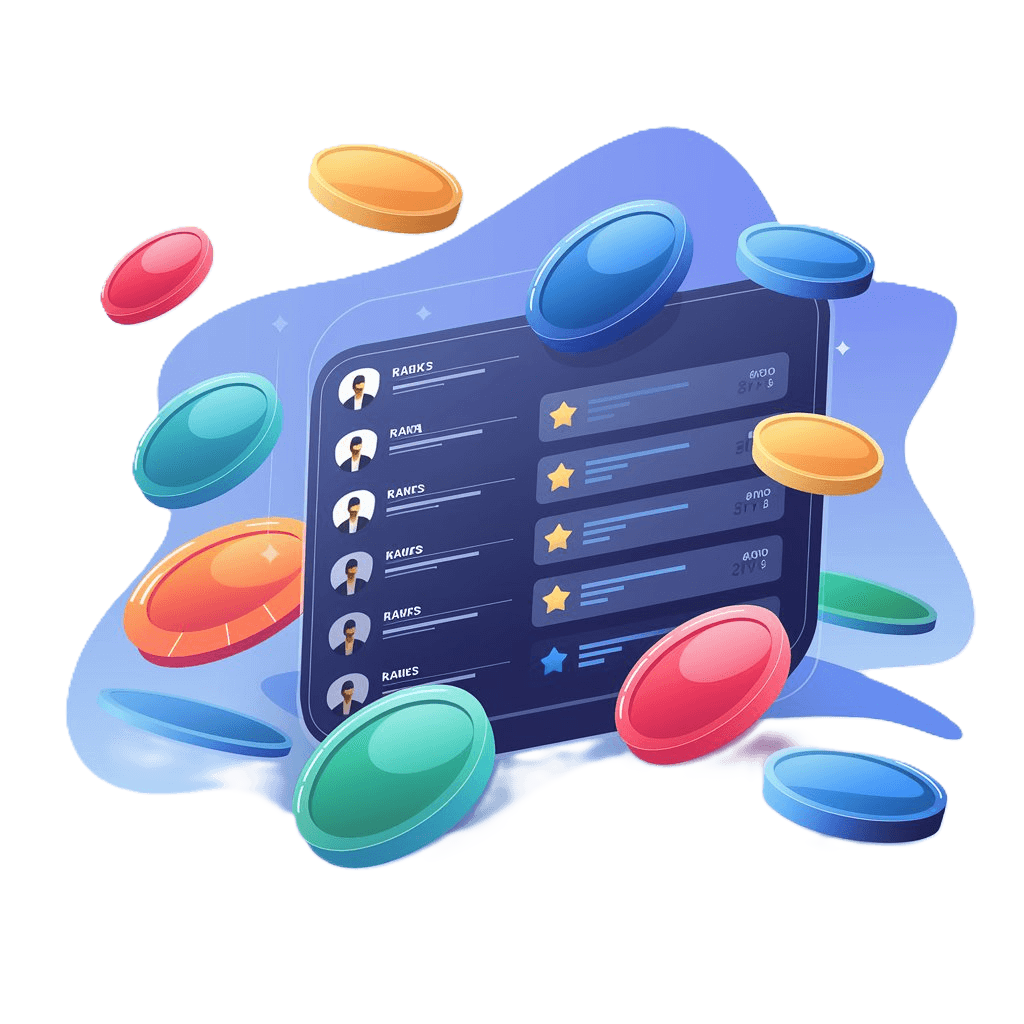
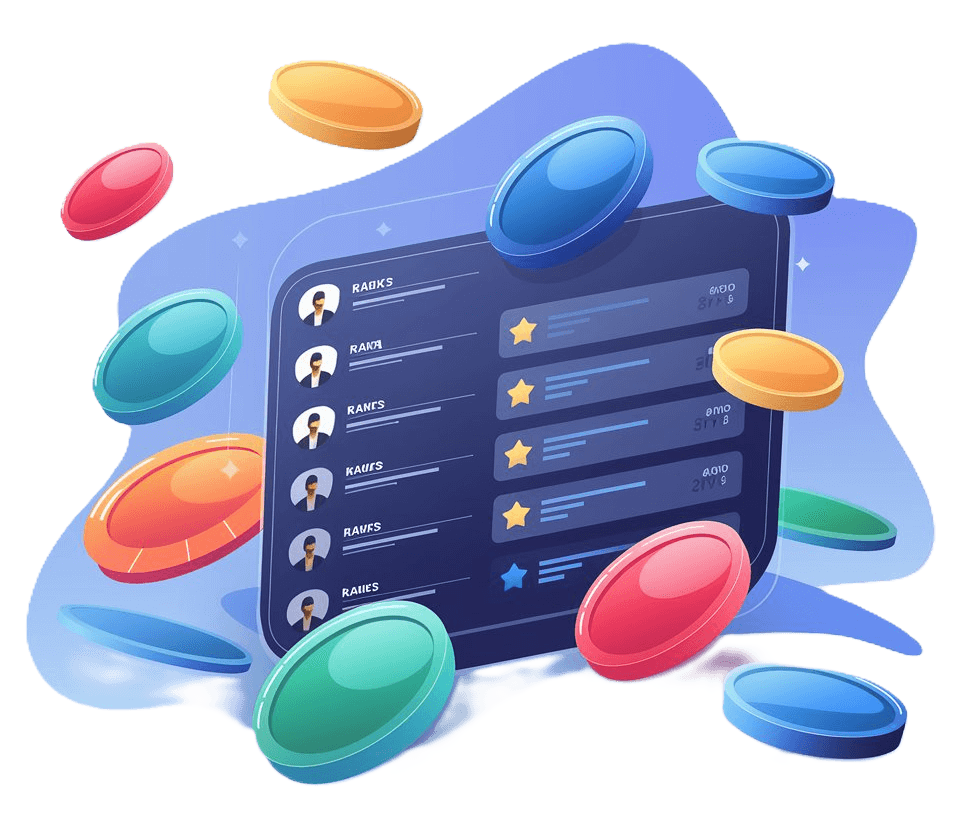
fix home responsiveness

diff --git a/src/pages/Home.jsx b/src/pages/Home.jsx
@@ -11,16 +11,16 @@ import Atom from "../components/core/Homepage/Atom";
 const Home = () => {
   return (
     <div>
-      <div className="relative mx-auto flex flex-col w-11/12 max-w-maxContent items-center text-white justify-between gap-8">
+      <div className="relative mx-auto flex flex-col w-11/12 max-w-maxContent items-center text-white justify-between md:gap-8">
         {/* Section 1 */}
-        <div className="flex justify-between items-center my-16">
-          <div className="w-[50%]">
-            <div className="text-4xl text-center font-semibold mb-7">
+        <div className="flex flex-col md:flex-row justify-between items-center my-16">
+          <div className="w-[100%] md:w-[50%]">
+            <div className="text-3xl sm:text-4xl text-center font-semibold mb-7">
               Master Skills,
-              <HighlightText text={"One Step at a Time"} />
+              <HighlightText text={" One Step at a Time"} />
             </div>
 
-            <div className="text-lg font-bold text-center text-richblack-300">
+            <div className="text-md sm:text-lg font-bold text-center text-richblack-300">
               Your ultimate destination for top-notch, curated courses to
               elevate your skills and career. Learn at your own pace, track your
               progress, and earn rewards as you upskill. With SkillStep, every
@@ -38,31 +38,35 @@ const Home = () => {
             </div>
           </div>
 
-          <div className="w-[50%]">
-            <img src={Home1} alt="Home1" />
+          <div className="w-[100%] md:w-[50%] flex justify-center items-center mt-16 md:mt-0">
+            <img src={Home1} width={"80%"} alt="success" />
           </div>
         </div>
 
         {/* Section 2 */}
-        <div className="flex flex-col-reverse sm:flex-row justify-center items-center mt-10 gap-10 sm:gap-20 mb-10">
+        <div className="flex flex-col-reverse md:flex-row justify-center items-center mt-10 md:mt-0 gap-10 sm:gap-20 mb-10">
           {/* left part */}
-          <div className="w-1/2 sm:w-[38%]">
-            <img src={Home2} height={300} alt="" />
+          <div className="w-[100%] md:w-[50%] flex justify-center items-center">
+            <img
+              src={Home2}
+              alt="progress_track"
+              className="w-[60%] md:w-[90%]"
+            />
           </div>
 
           {/* left part */}
-          <div className="w-full sm:w-1/2 flex flex-col gap-6">
-            <div className="text-4xl font-semibold mt-10">
+          <div className="w-[100%] md:w-[50%] flex flex-col gap-6">
+            <div className="text-3xl sm:text-4xl font-semibold mt-10">
               Structured
               <HighlightText text={" Learning "} />
               Path
             </div>
 
-            <div className="w-[90%] text-xl font-bold text-blue-50s">
+            <div className="w-[90%] text-lg md:text-xl font-bold text-blue-50s">
               Stay Consistent and Master New Skills Effectively
             </div>
 
-            <div className="w-[90%] text-lg font-bold text-richblack-300">
+            <div className="w-[90%] text-md md:text-lg font-bold text-richblack-300">
               Follow a guided, alternate-day structure to maintain consistency
               and make steady progress. Each course is designed to keep you
               engaged and motivated, without overwhelming you.
@@ -77,19 +81,19 @@ const Home = () => {
         </div>
 
         {/* Section 3 */}
-        <div className="flex flex-col-reverse sm:flex-row justify-center items-center mt-10 gap-10 sm:gap-20 mb-10">
+        <div className="flex flex-col md:flex-row justify-center items-center mt-10 gap-10 sm:gap-20 mb-10">
           {/* left part */}
-          <div className="w-full sm:w-1/2 flex flex-col gap-6">
-            <div className="text-4xl font-semibold mt-10">
+          <div className="w-[100%] md:w-[50%] flex flex-col gap-6">
+            <div className="text-3xl sm:text-4xl font-semibold mt-10">
               Progress
               <HighlightText text={" Tracking & Certificates"} />
             </div>
 
-            <div className="w-[90%] text-xl font-bold text-blue-50s">
+            <div className="w-[90%] text-lg sm:text-xl font-bold text-blue-50s">
               Monitor Your Progress and Showcase Your Achievements
             </div>
 
-            <div className="w-[90%] text-lg font-bold text-richblack-300">
+            <div className="w-[90%] text-md sm:text-lg font-bold text-richblack-300">
               Stay on top of your learning journey with personalized dashboards
               and earn certificates upon course completion to highlight your
               accomplishments.
@@ -103,30 +107,40 @@ const Home = () => {
           </div>
 
           {/* right part */}
-          <div className="w-1/2 sm:w-[38%]">
-            <img src={Home3} height={300} alt="" loading="lazy" />
+          <div className="w-[100%] md:w-[50%] flex justify-center items-center">
+            <img
+              src={Home3}
+              alt="certificate"
+              loading="lazy"
+              className="w-[60%] md:w-[90%]"
+            />
           </div>
         </div>
 
         {/* Section 4 */}
-        <div className="flex flex-col-reverse sm:flex-row justify-center items-center gap-10 sm:gap-20">
+        <div className="flex flex-col-reverse md:flex-row justify-center items-center gap-10 md:gap-10">
           {/* left part */}
-          <div className="w-1/2 sm:w-[38%]">
-            <img src={Home4} height={300} alt="" loading="lazy" />
+          <div className="w-[100%] md:w-[50%] flex justify-center items-center">
+            <img
+              src={Home4}
+              alt="games"
+              loading="lazy"
+              className="w-[70%] md:w-[90%]"
+            />
           </div>
 
           {/* right part */}
-          <div className="w-full sm:w-1/2 flex flex-col gap-6">
-            <div className="text-4xl font-semibold mt-10">
+          <div className="w-[100%] md:w-[50%] flex flex-col gap-6">
+            <div className="text-3xl sm:text-4xl font-semibold mt-10">
               Gamification for
               <HighlightText text={" Motivation"} />
             </div>
 
-            <div className="w-[90%] text-xl font-bold text-blue-50s">
+            <div className="w-[90%] text-lg sm:text-xl font-bold text-blue-50s">
               Stay Engaged and Motivated with Fun Rewards
             </div>
 
-            <div className="w-[90%] text-lg font-bold text-richblack-300">
+            <div className="w-[90%] text-md sm:text-lg font-bold text-richblack-300">
               Earn badges, points, and climb the leaderboard as you progress
               through your learning journey. Keep up the streak and be rewarded
               for your dedication and hard work!
@@ -141,19 +155,19 @@ const Home = () => {
         </div>
 
         {/* Section 5 */}
-        <div className="flex flex-col-reverse sm:flex-row justify-center items-center mt-10 gap-10 sm:gap-20 mb-10">
+        <div className="flex flex-col md:flex-row justify-center items-center mt-10 gap-10 sm:gap-20 mb-10">
           {/* left part */}
-          <div className="w-full sm:w-1/2 flex flex-col gap-6">
-            <div className="text-4xl font-semibold mt-10">
+          <div className="w-[100%] md:w-[50%] flex flex-col gap-6">
+            <div className="text-3xl sm:text-4xl font-semibold mt-10">
               Email
               <HighlightText text={" Notifications"} />
             </div>
 
-            <div className="w-[90%] text-xl font-bold text-blue-50s">
+            <div className="w-[90%] text-lg sm:text-xl font-bold text-blue-50s">
               Stay Informed and On Track with Timely Updates
             </div>
 
-            <div className="w-[90%] text-lg font-bold text-richblack-300">
+            <div className="w-[90%] text-md sm:text-lg font-bold text-richblack-300">
               Receive timely updates and reminders about new content and
               courses, tailored to your learning preferences. Stay informed and
               never miss an opportunity to enhance your skills.
@@ -167,8 +181,13 @@ const Home = () => {
           </div>
 
           {/* right part */}
-          <div className="w-1/2 sm:w-[38%]">
-            <img src={Home5} height={300} alt="" loading="lazy" />
+          <div className="w-[100%] md:w-[50%] flex justify-center items-center">
+            <img
+              src={Home5}
+              alt="email_notification"
+              loading="lazy"
+              className="w-[70%] md:w-[90%]"
+            />
           </div>
         </div>
 
@@ -181,16 +200,16 @@ const Home = () => {
 
           {/* left part */}
           <div className="w-full lg:w-1/2 flex flex-col gap-6 text-wrap">
-            <div className="text-4xl font-semibold mt-10">
+            <div className="text-3xl sm:text-4xl font-semibold mt-10">
               Unlock Your
               <HighlightText text={" Future"} />
             </div>
 
-            <div className="w-[90%] text-xl font-bold text-blue-50s">
+            <div className="w-[90%] text-lg sm:text-xl font-bold text-blue-50s">
               Transform Your Learning into Opportunities
             </div>
 
-            <div className="w-[90%] text-lg font-bold text-richblack-300">
+            <div className="w-[90%] text-md sm:text-lg font-bold text-richblack-300">
               At SkillStep, we equip you with the tools and resources to achieve
               your career goals through structured courses and a supportive
               community. Gain in-demand skills, access tailored content, earn
